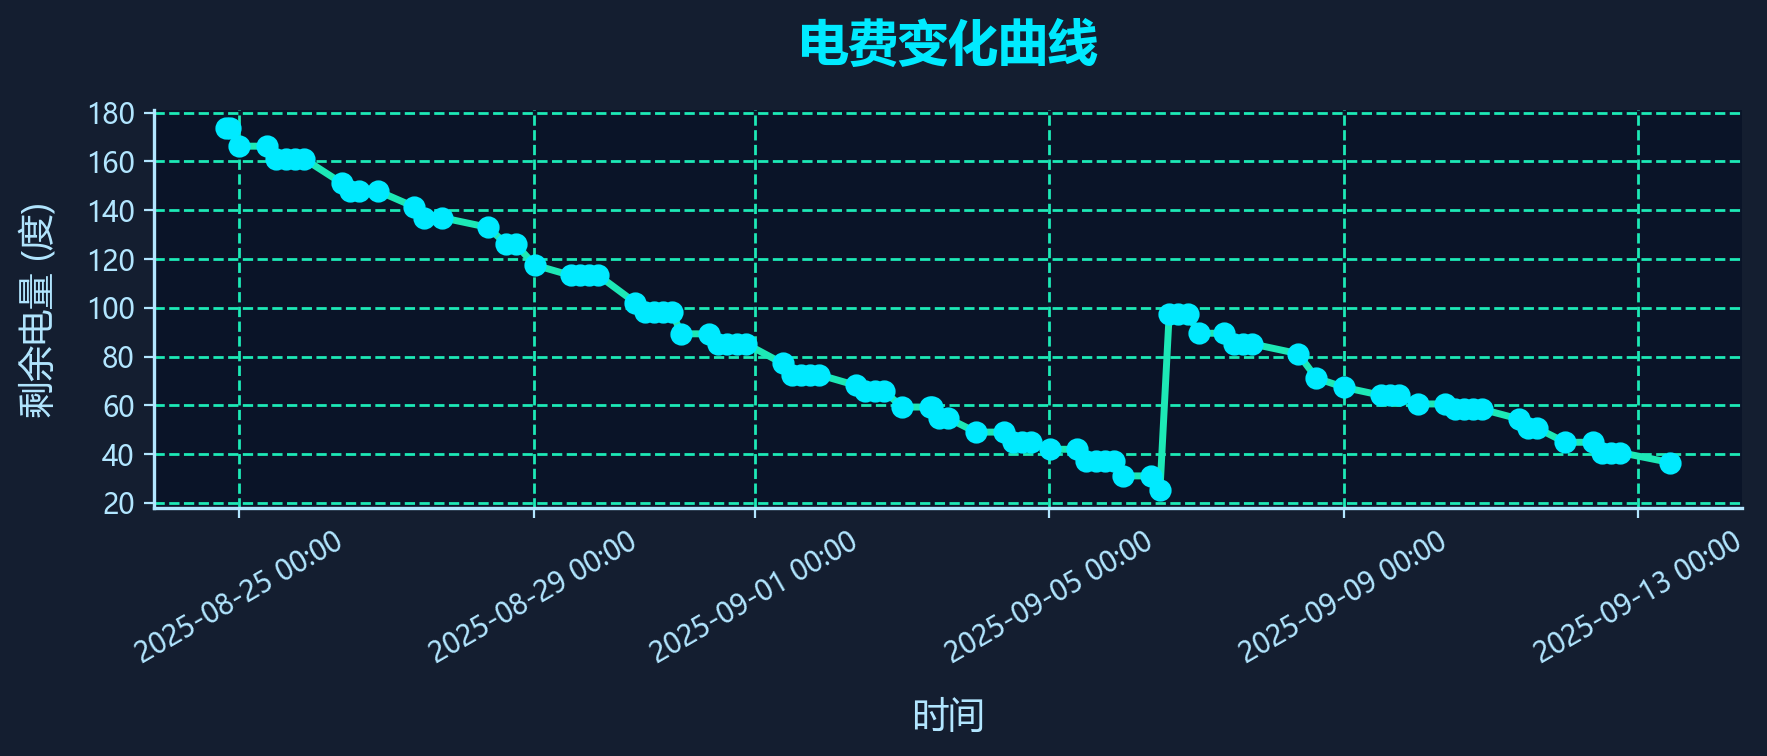
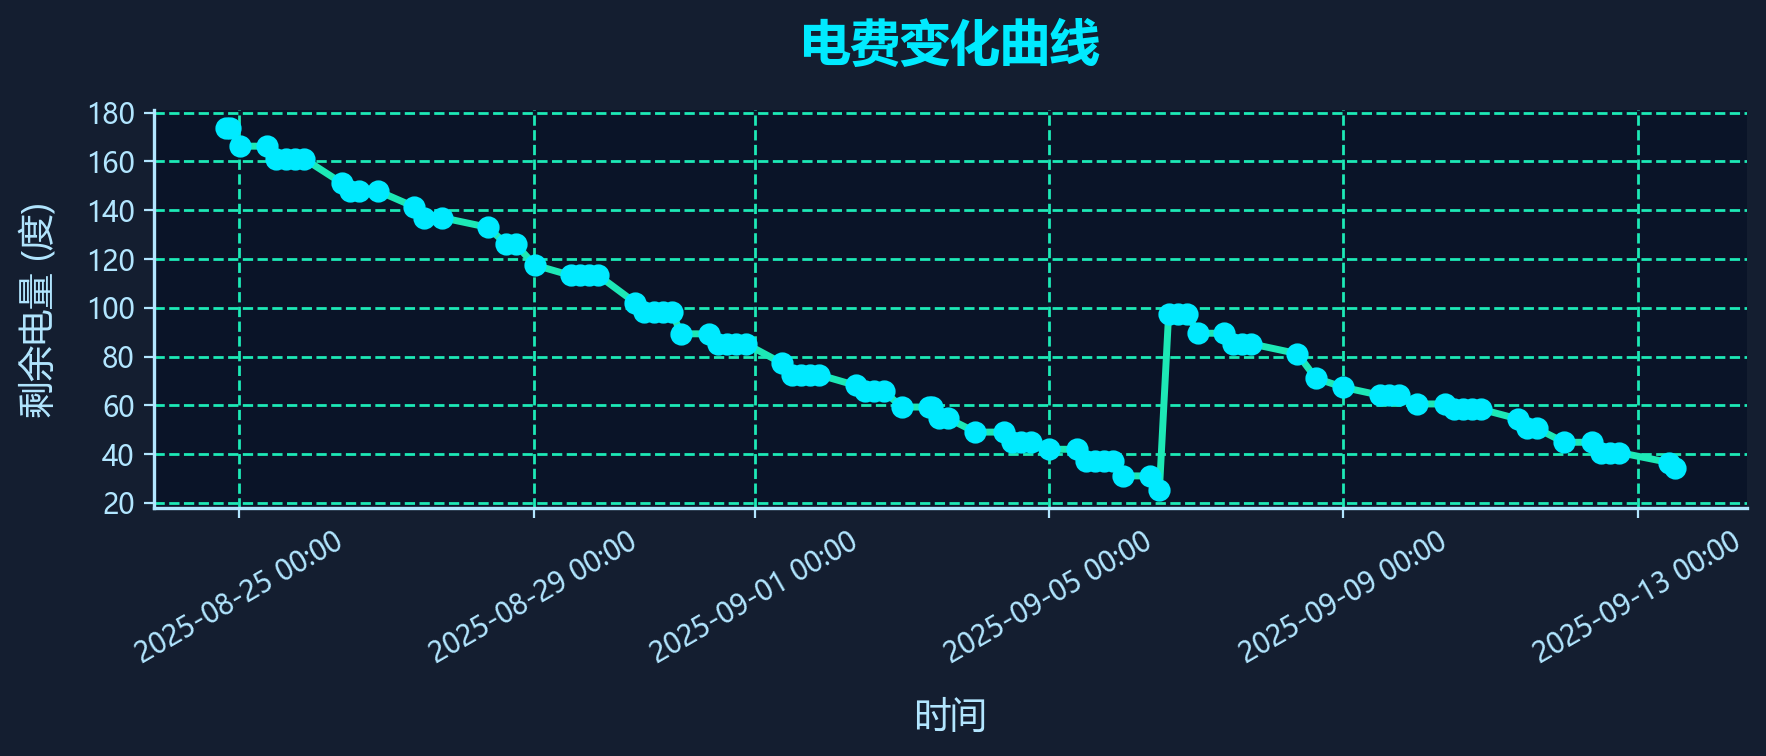
2025-09-13 12:03 自动提交电费变更

diff --git a/data/debug_page_source.html b/data/debug_page_source.html
@@ -2,7 +2,7 @@
     <meta http-equiv="Content-Type" content="text/html; charset=UTF-8">
     <meta http-equiv="X-UA-Compatible" content="IE=edge">
     <meta name="viewport" content="width=device-width, initial-scale=1, user-scalable=no">
-    <meta name="_csrf" content="f6a51d95-78e1-40cf-b077-e850de349ed2">
+    <meta name="_csrf" content="18831ad4-54ae-4a22-b731-daf22ec17d61">
     <meta name="_csrf_header" content="X-CSRF-TOKEN">
     <link type="image/png" href="/epay/images/nju/icon.png" rel="shortcut icon">
     <link type="text/css" rel="stylesheet" href="/epay/css/wxpage/weui.min.css">
@@ -32,7 +32,7 @@
 
 
 <body>
-<div id="app"><div class="centent"><div class="top"><div class="clearfix"><span class="fl">持卡人姓名：<i>吴相民</i></span></div> <div class="clearfix"><span class="fl">校园卡余额：<i class="green">151.19元</i></span></div></div> <div class="line"></div> <div class="cont"><div class="clearfix"><span class="fl">缴费地址：<i>仙林校区 18幢 18栋第17层1702</i></span></div> <div class="clearfix"><span class="fl">剩余电量：<i>36.51度</i><em></em></span></div> <!----> <!----></div> <div class="num clearfix"><div style="display: flex; flex-wrap: wrap;"><span class="active">10元</span><span class="">20元</span><span class="">50元</span><span class="">100元</span><span class="">200元</span><span class="">自定义</span></div></div> <div class="inputbox" style="display: none;"><input type="text" placeholder="请输入充值金额" pattern="[0-9]*" maxlength="4" id="amount"></div> <div class="footer">充值</div> <div class="desc">充值时间：每天00:05-23:55</div> <div class="wapat"><div class="wapat-inner"><div class="wapat-title">错误！</div> <div class="wapat-btn-box"><div class="wapat-btn wapat-btn-ok">确定</div></div></div></div></div></div>
+<div id="app"><div class="centent"><div class="top"><div class="clearfix"><span class="fl">持卡人姓名：<i>吴相民</i></span></div> <div class="clearfix"><span class="fl">校园卡余额：<i class="green">151.17元</i></span></div></div> <div class="line"></div> <div class="cont"><div class="clearfix"><span class="fl">缴费地址：<i>仙林校区 18幢 18栋第17层1702</i></span></div> <div class="clearfix"><span class="fl">剩余电量：<i>34.10度</i><em></em></span></div> <!----> <!----></div> <div class="num clearfix"><div style="display: flex; flex-wrap: wrap;"><span class="active">10元</span><span class="">20元</span><span class="">50元</span><span class="">100元</span><span class="">200元</span><span class="">自定义</span></div></div> <div class="inputbox" style="display: none;"><input type="text" placeholder="请输入充值金额" pattern="[0-9]*" maxlength="4" id="amount"></div> <div class="footer">充值</div> <div class="desc">充值时间：每天00:05-23:55</div> <div class="wapat"><div class="wapat-inner"><div class="wapat-title">错误！</div> <div class="wapat-btn-box"><div class="wapat-btn wapat-btn-ok">确定</div></div></div></div></div></div>
 
 
 
